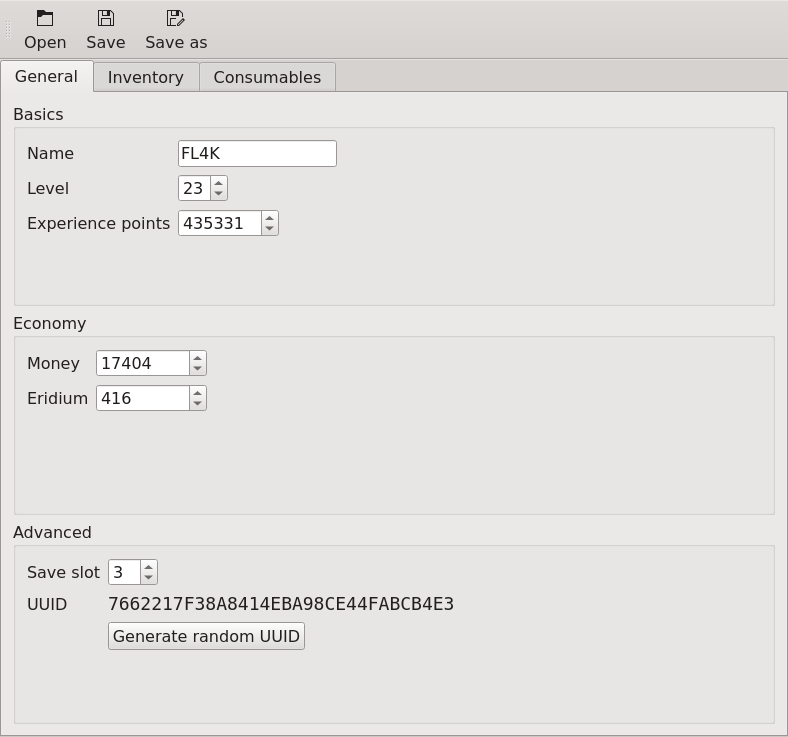
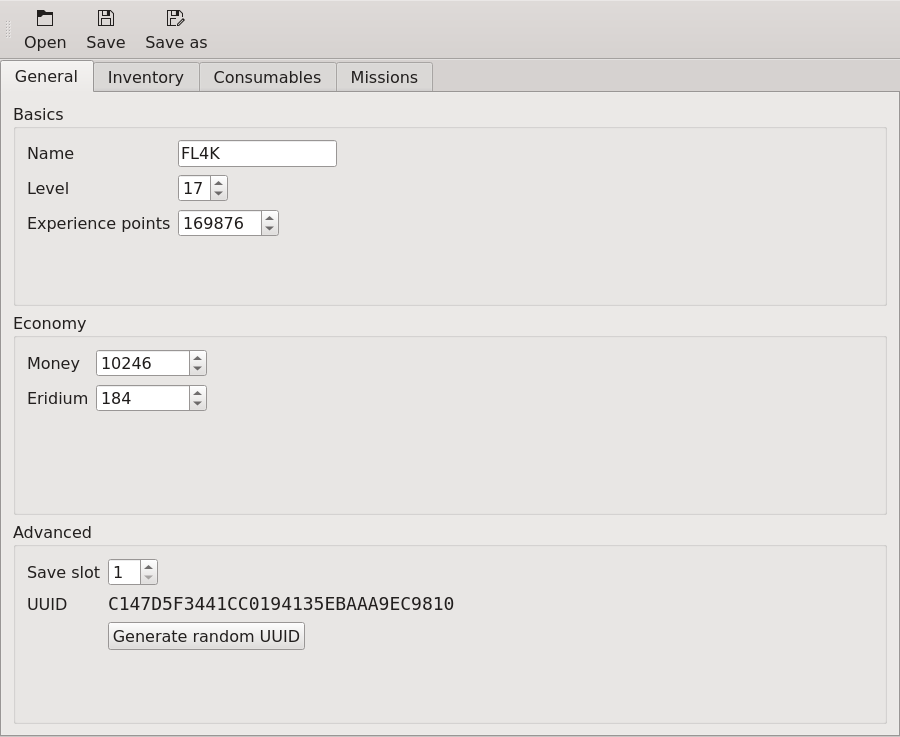
update readme with a bit more up-to-date info

diff --git a/README.md b/README.md
@@ -4,21 +4,14 @@ Borderlands 3 Savegame Editor
 ![screenshot](/doc/screenshot.png)
 
 
-Work in progress.
+Work in progress, whenever I encounter a game-breaking bug and need to get past
+it. Because they don't provide a console in game.
 
-Can edit what's exposed in the GUI (so what's in the screenshot). And a bit
-more. And you can view the inventory.
-
-It can technically edit items as well, but that hasn't been tested at all, so
-you're on your own if it breaks. Though it should warn you if it is sure you're
-breaking something.
-
-I have only tested that it writes an identical file when you set the same
-values, but I haven't tested that it doesn't fuck up if you set funny values.
-
-If you want a more complete editor and you are okay with using a command line,
-try https://github.com/apocalyptech/bl3-cli-saveedit instead. Almost everything
+If you want a more complete, better written and more tested editor and you are
+okay with using a command line, try
+https://github.com/apocalyptech/bl3-cli-saveedit instead. Almost everything
 here is just based on his discoveries anyways.
+
 
 ## Windows builds
 
@@ -28,6 +21,21 @@ https://ci.appveyor.com/project/sandsmark/borderlands3-save-editor/build/artifac
 
 NB: I don't run windows nor do I have a windows machine to test on, but when I
 set up appveyor I tested it in Wine (on Linux) and it worked.
+
+
+## Functionality
+
+I. e. what it can edit. And will probably break.
+
+ - Name
+ - Level
+ - Experience points
+ - Edit items/weapons in the inventory, also tries to validate your changes (can't create new from scratch yet though)
+ - Amount of ammo, SDUs, eridium and money
+ - View active missions and progress (have everything for editing, but can't be bothered to do the last 5% of the work)
+ - UUID (not very interesting, but we can generate valid ones)
+ - Save slot ID (not very interesting either)
+
 
 ## Credits
 
